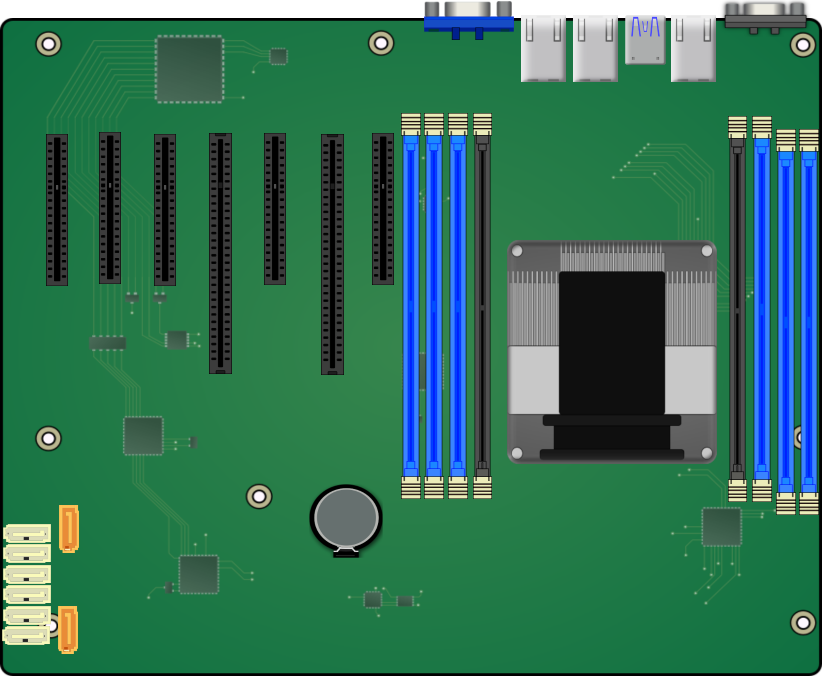
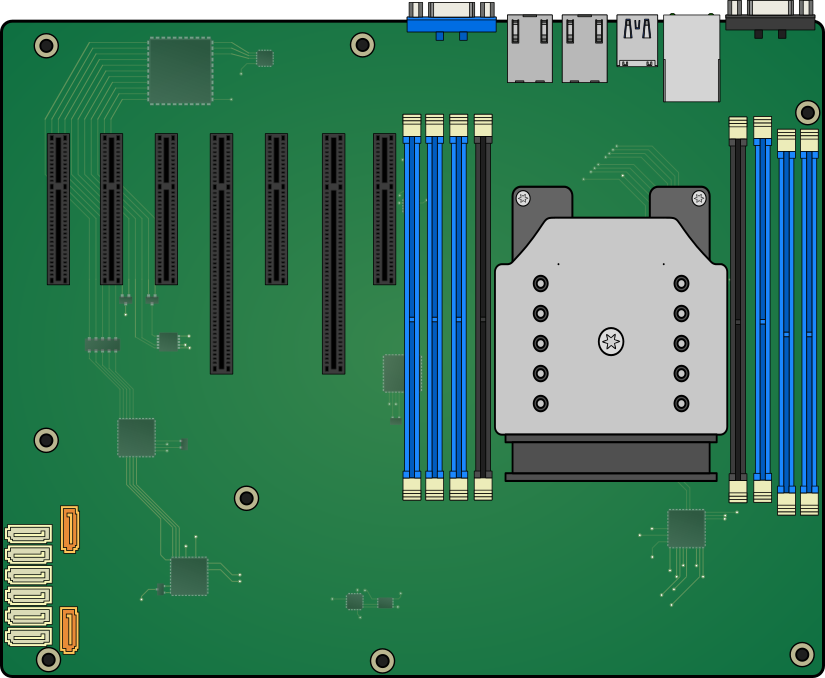
added support for X11SPi-TF Motherboards in 45Drives-motherboard module

diff --git a/src/fakeroot/usr/share/cockpit/45drives-motherboard/motherboard.js b/src/fakeroot/usr/share/cockpit/45drives-motherboard/motherboard.js
@@ -34,7 +34,7 @@ var pci_info = null;
 var ram_info = null;
 var sata_info = null;
 var network_info = null;
-var supported_motherboards = ["X11DPL-i","X11SPL-F","H11SSL-i","X11SSH-CTF","X11SSM-F"];
+var supported_motherboards = ["X11DPL-i","X11SPL-F","H11SSL-i","X11SSH-CTF","X11SSM-F","X11SPi-TF"];
 var mobo_supported = false;
 var root_check = null;
 
@@ -191,10 +191,14 @@ class peripheral{
 	show(){
 		m.push();
 		if(this.img_idx != -1){
-			let aspectRatio = peripheralImages[this.img_idx].width/peripheralImages[this.img_idx].height;
-			let newWidth = peripheralImages[this.img_idx].width*this.wScale;
-			let newHeight = newWidth/aspectRatio;
-			m.image(peripheralImages[this.img_idx],this.x0,this.y0,newWidth,newHeight);
+			if(this.pType == "RAM"){
+				m.image(peripheralImages[this.img_idx],this.x0,this.y0,this.width*this.wScale,this.height);
+			}else{
+				let aspectRatio = peripheralImages[this.img_idx].width/peripheralImages[this.img_idx].height;
+				let newWidth = peripheralImages[this.img_idx].width*this.wScale;
+				let newHeight = newWidth/aspectRatio;
+				m.image(peripheralImages[this.img_idx],this.x0,this.y0,newWidth,newHeight);
+			}
 		}else{
 			m.fill(this.fill);
 			m.noStroke();
@@ -381,13 +385,12 @@ m.getRam= function(){
 						peripherals.push(
 							new peripheral(
 							"RAM",
-							components[c]["x0"]+components[c]["width"]*0.08,
-							components[c]["y0"]+components[c]["height"]*0.09,
+							components[c]["x0"],
+							components[c]["y0"],
 							components[c]["width"],
 							components[c]["height"],
 							"#8080FF80",
-							peripheralImages.length,
-							components[c]["width"]*ramScale,
+							peripheralImages.length
 							)
 						);
 						peripheralImages.push(m.loadImage("img/motherboard/ram.png"));
